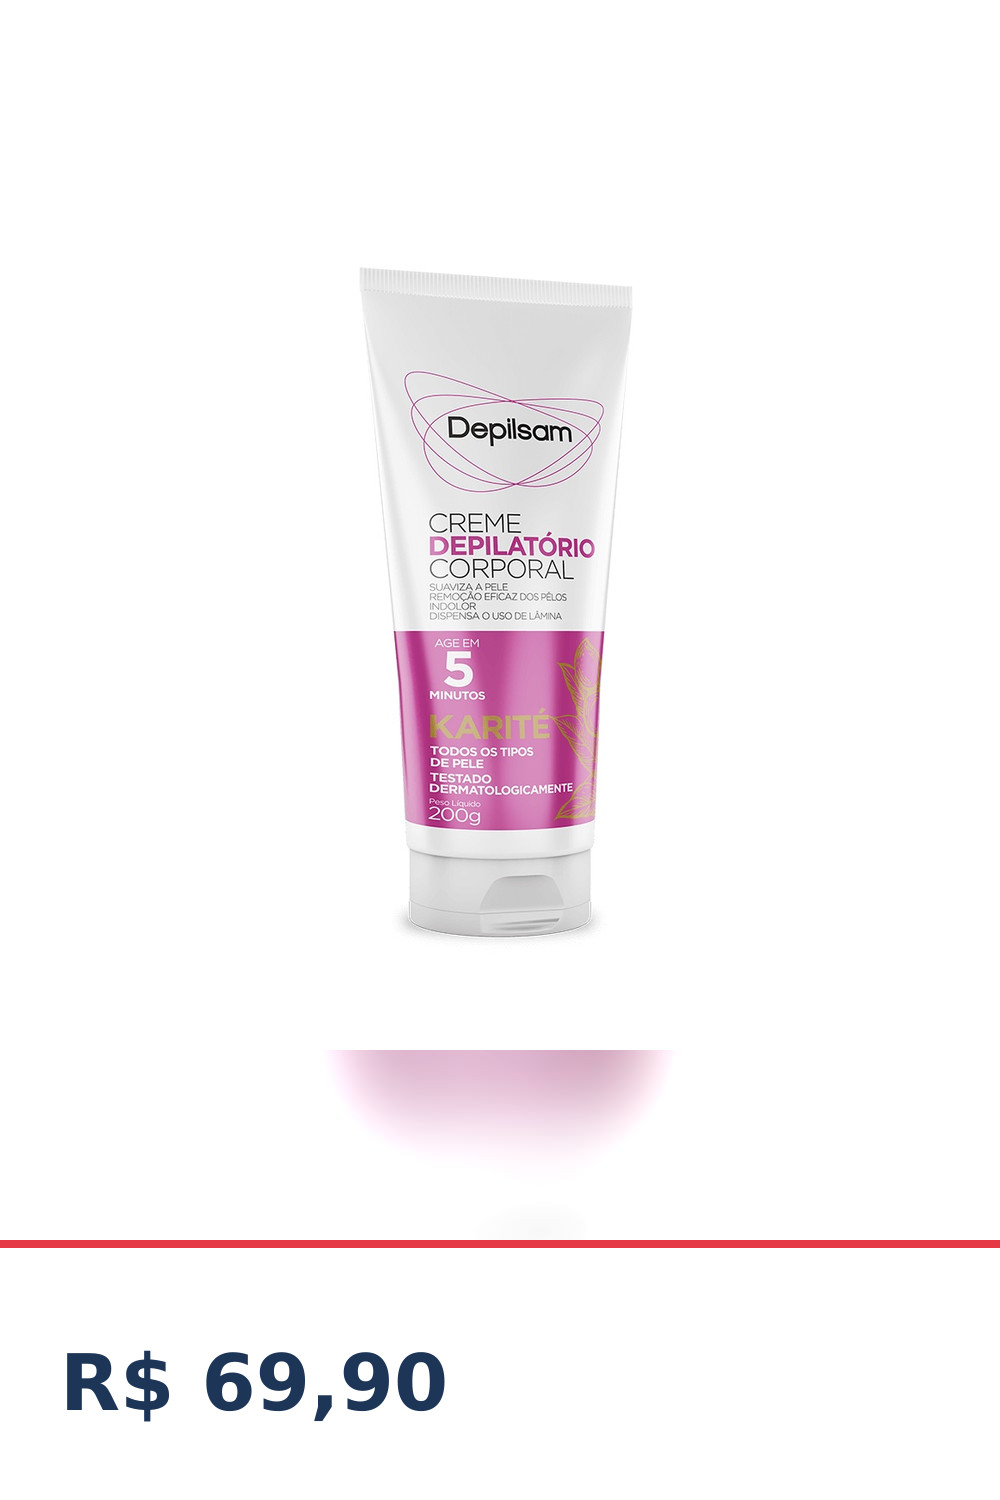
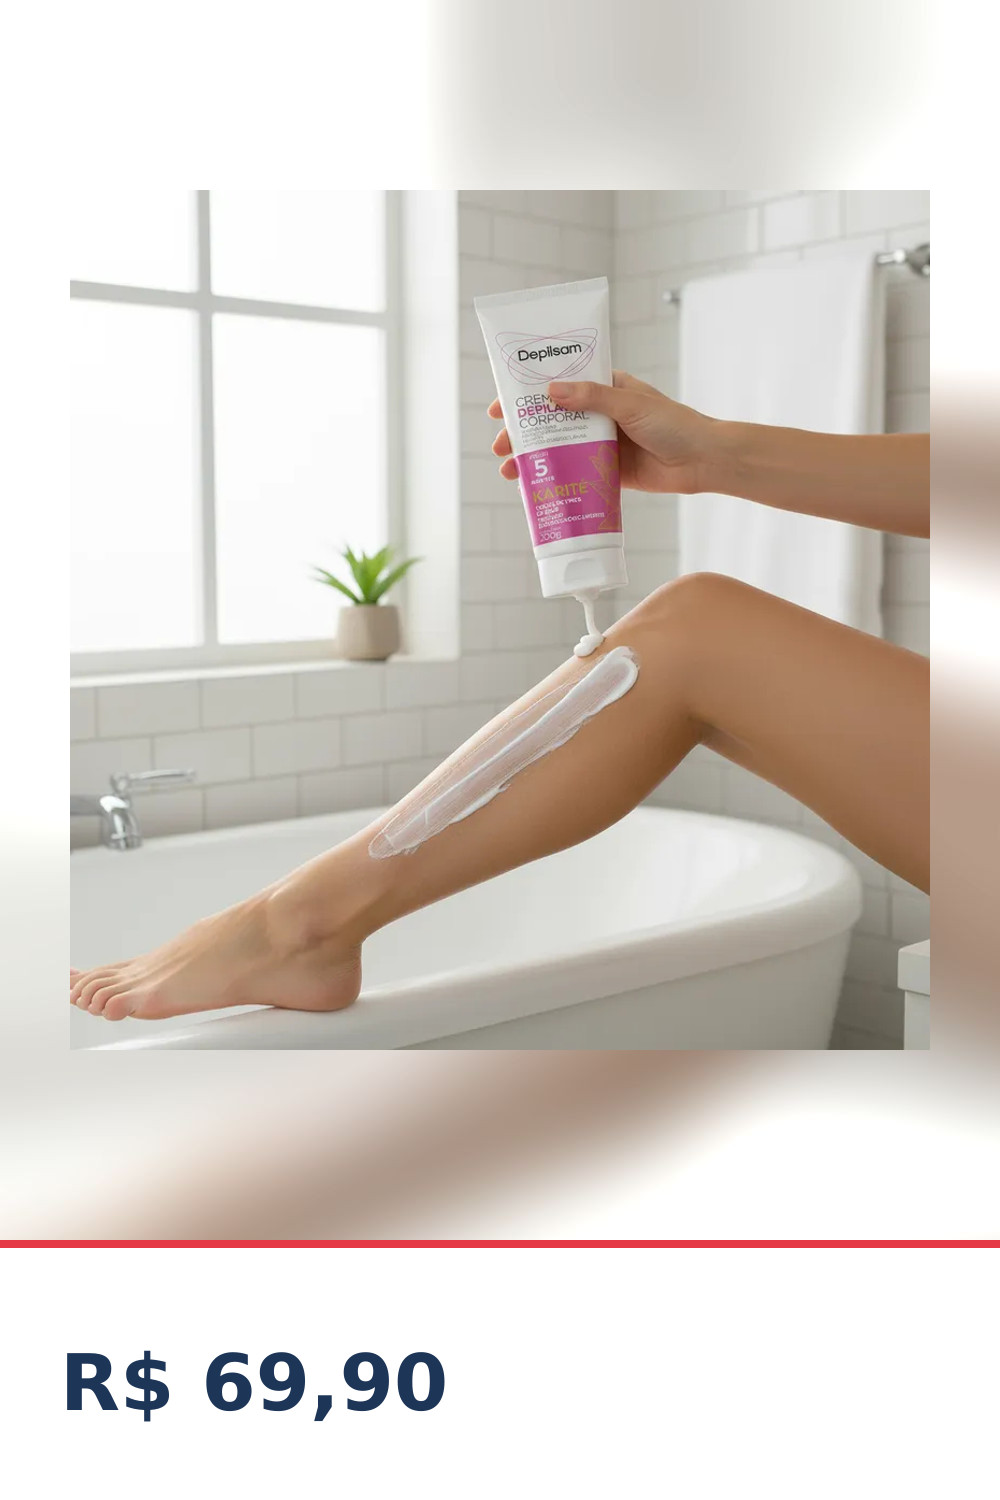
feat(engine): usa a foto ambientada do produto no pin
A primeira foto do anúncio é a de catálogo, com o produto recortado em
fundo branco — que converte mal no Pinterest. As seguintes normalmente
mostram o produto aplicado num ambiente real, que é o que faz a pessoa
parar de rolar e clicar.

A engine passa a extrair a galeria inteira da página do produto, na
ordem em que o vendedor montou, e escolhe a foto pelo índice
configurável PRODUCT_IMAGE_INDEX (padrão 1, a segunda). Galeria menor
que o índice cai para a primeira foto, e og:image continua como último
recurso.

Filtra variantes de baixa resolução (_tn, _cover) e ícones do site, que
não seguem o padrão de id das fotos de produto.

Claude-Session: https://claude.ai/code/session_01UAxsXg8g2GKgxUENyAVpNc

diff --git a/engine/src/miner/product-page.ts b/engine/src/miner/product-page.ts
@@ -1,3 +1,4 @@
+import { config } from '../config/index.js';
 import { logger } from '../utils/logger.js';
 import type { MinedOffer } from './types.js';
 
@@ -35,6 +36,45 @@ export function extractOgImage(html: string): string | null {
   return withContentFirst ? withContentFirst[1] : null;
 }
 
+const IMAGE_HOST = 'https://down-br.img.susercontent.com/file';
+/** IDs de foto de produto: `br-11134207-7r98o-...`. Ícones do site não batem. */
+const PRODUCT_IMAGE_ID = /^[a-z]{2}-\d+-/i;
+
+/**
+ * Extrai a galeria de fotos na ordem em que o vendedor a montou.
+ *
+ * A primeira costuma ser a foto de catálogo (fundo branco); as seguintes
+ * costumam mostrar o produto ambientado, que é o que faz o pin converter no
+ * Pinterest. Variantes de baixa resolução (`_tn`, `_cover`) são descartadas.
+ */
+export function extractGalleryImages(html: string): string[] {
+  const seen = new Set<string>();
+  const gallery: string[] = [];
+
+  for (const match of html.matchAll(
+    /https:\/\/down-br\.img\.susercontent\.com\/file\/([a-z0-9_-]+)/gi,
+  )) {
+    const id = match[1];
+    if (/_(tn|cover|thumb)/i.test(id)) continue;
+    if (!PRODUCT_IMAGE_ID.test(id)) continue;
+    if (seen.has(id)) continue;
+
+    seen.add(id);
+    gallery.push(`${IMAGE_HOST}/${id}`);
+  }
+
+  return gallery;
+}
+
+/**
+ * Escolhe a foto do pin. `preferredIndex` aponta para a foto ambientada
+ * (padrão: a segunda); se a galeria for menor, cai para a primeira.
+ */
+export function pickPinImage(gallery: string[], preferredIndex: number): string | null {
+  if (gallery.length === 0) return null;
+  return gallery[preferredIndex] ?? gallery[0];
+}
+
 /** Devolve a URL da imagem principal do produto, ou null se não der. */
 export async function resolveProductImage(productUrl: string): Promise<string | null> {
   try {
@@ -48,7 +88,12 @@ export async function resolveProductImage(productUrl: string): Promise<string | 
       return null;
     }
 
-    return extractOgImage(await response.text());
+    const html = await response.text();
+
+    // Preferimos a galeria (dá acesso à foto ambientada); og:image é o
+    // fallback, já que sempre existe mesmo quando a galeria não é detectada.
+    const gallery = extractGalleryImages(html);
+    return pickPinImage(gallery, config.productImageIndex) ?? extractOgImage(html);
   } catch (error) {
     logger.debug(`falha ao ler página do produto: ${(error as Error).message}`);
     return null;

diff --git a/engine/src/config/index.ts b/engine/src/config/index.ts
@@ -81,6 +81,12 @@ export const config = {
   /** Domínio público onde os pins ficam acessíveis (deploy da Vercel). */
   publicBaseUrl: (process.env.PUBLIC_BASE_URL ?? '').replace(/\/+$/, ''),
 
+  /**
+   * Qual foto da galeria vira o pin (0 = foto de catálogo, 1 = segunda).
+   * A segunda costuma mostrar o produto ambientado, que converte melhor.
+   */
+  productImageIndex: asInt(process.env.PRODUCT_IMAGE_INDEX, 1),
+
   /** Quantas ofertas publicar por ciclo — cadência conservadora evita bloqueio. */
   publishBatchSize: asInt(process.env.PUBLISH_BATCH_SIZE, 3),
 
